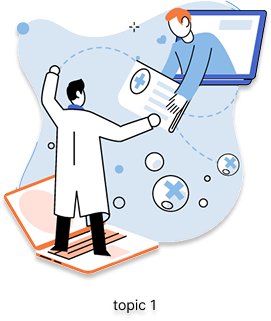
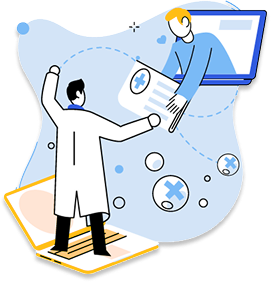
feat: Update placeholder images

diff --git a/src/pages/Home.tsx b/src/pages/Home.tsx
@@ -1,7 +1,7 @@
 import { useState } from "react";
-import Placeholder1 from "../../src/assets/placeholder-1.png";
-import Placeholder2 from "../../src/assets/placeholder-2.png";
-import Placeholder3 from "../../src/assets/placeholder-3.png";
+import Placeholder1 from "../assets/placeholder-1.png";
+import Placeholder2 from "../assets/placeholder-2.png";
+import Placeholder3 from "../assets/placeholder-3.png";
 import { WelcomeNewUser } from "../components/home/WelcomeNewUser";
 
 export function Home() {
